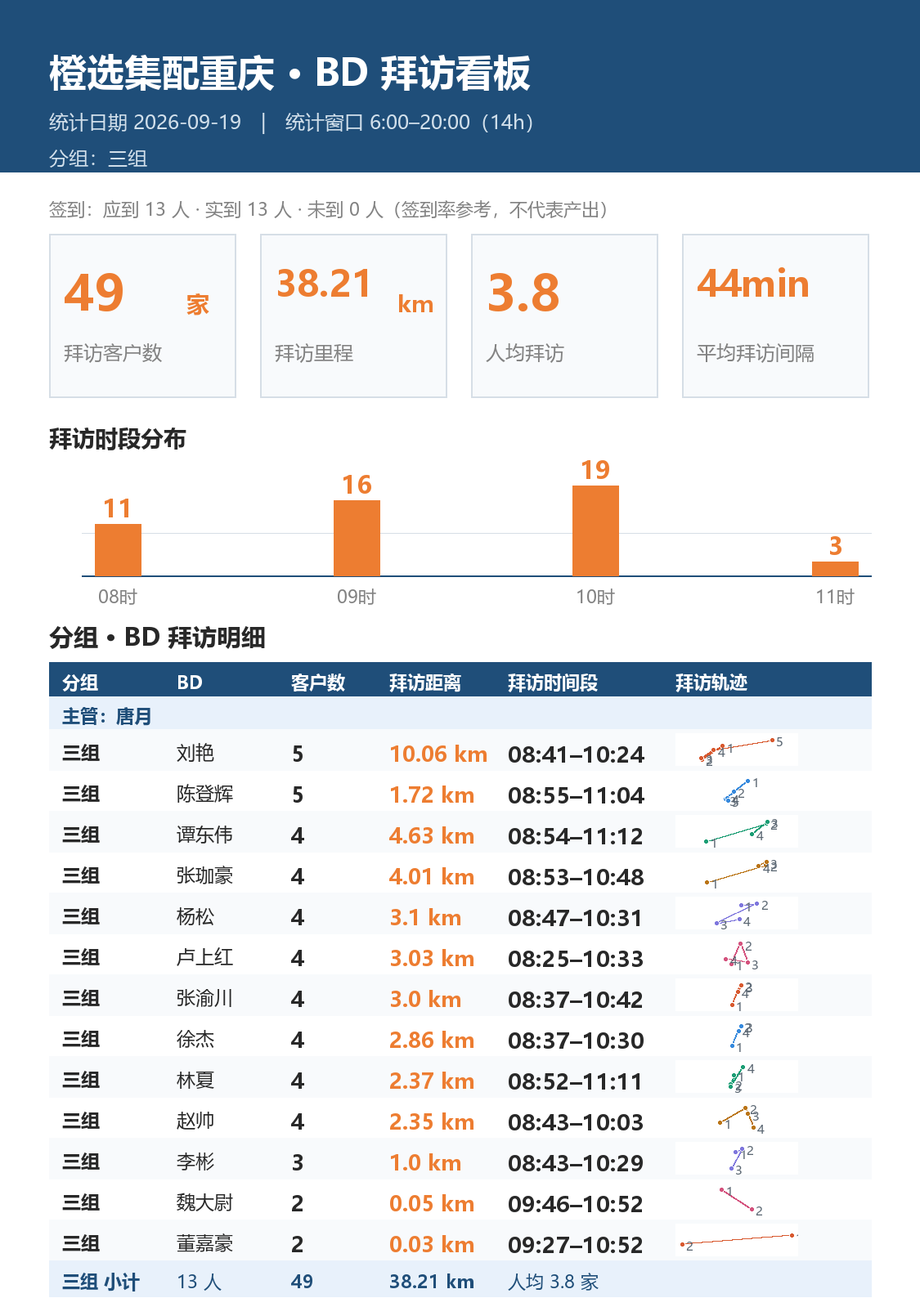
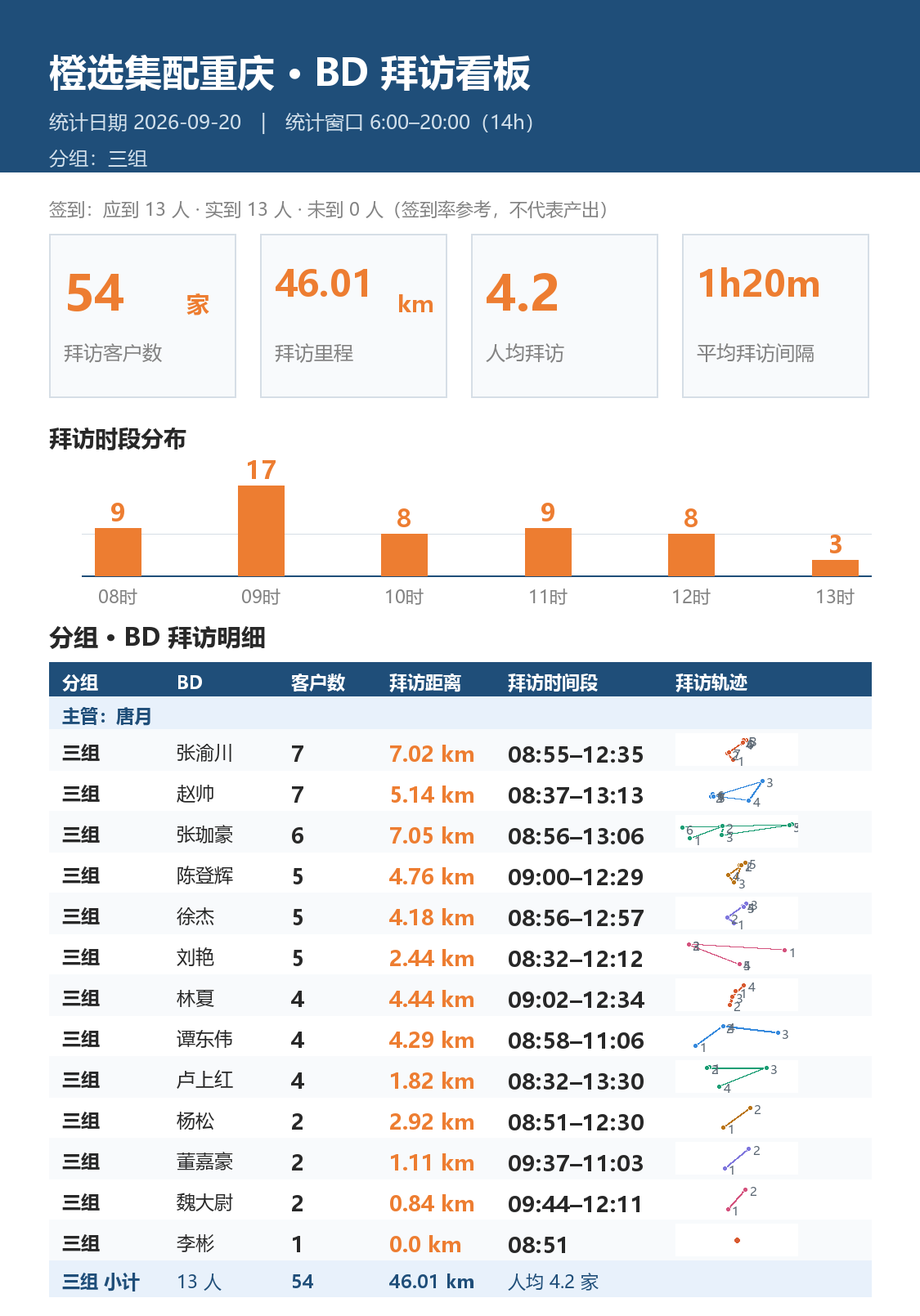
BD 拜访看板 2026-09-20

diff --git a/bd_visits/visit_board_g3.html b/bd_visits/visit_board_g3.html
@@ -107,88 +107,88 @@ td.span{font-size:16px;font-weight:600;color:#1F4E79;white-space:nowrap}
 <div class="sub">统计日期 2026-09-20　|　13 人　|　数据来源：钉钉签到</div></div>
 <div class="wrap">
 <div class="cards">
-<div class="card"><div><span class="v">41</span><span class="u">家</span></div><div class="l">拜访客户数</div></div><div class="card"><div><span class="v">30.82</span><span class="u">km</span></div><div class="l">拜访里程</div></div><div class="card"><div><span class="v">3.2</span><span class="u">家</span></div><div class="l">人均拜访</div></div><div class="card"><div><span class="v">50min</span><span class="u"></span></div><div class="l">平均拜访间隔</div></div>
+<div class="card"><div><span class="v">54</span><span class="u">家</span></div><div class="l">拜访客户数</div></div><div class="card"><div><span class="v">46.01</span><span class="u">km</span></div><div class="l">拜访里程</div></div><div class="card"><div><span class="v">4.2</span><span class="u">家</span></div><div class="l">人均拜访</div></div><div class="card"><div><span class="v">1h20m</span><span class="u"></span></div><div class="l">平均拜访间隔</div></div>
 </div>
-<div class="section"><h2>拜访时段分布</h2><div class="chart"><div class="crow"><div class="col"><span class="bv">9</span><div class="bar" style="height:28px"></div><span class="xl">08时</span></div><div class="col"><span class="bv">17</span><div class="bar" style="height:50px"></div><span class="xl">09时</span></div><div class="col"><span class="bv">8</span><div class="bar" style="height:26px"></div><span class="xl">10时</span></div><div class="col"><span class="bv">7</span><div class="bar" style="height:23px"></div><span class="xl">11时</span></div></div></div></div>
+<div class="section"><h2>拜访时段分布</h2><div class="chart"><div class="crow"><div class="col"><span class="bv">9</span><div class="bar" style="height:28px"></div><span class="xl">08时</span></div><div class="col"><span class="bv">17</span><div class="bar" style="height:50px"></div><span class="xl">09时</span></div><div class="col"><span class="bv">8</span><div class="bar" style="height:26px"></div><span class="xl">10时</span></div><div class="col"><span class="bv">9</span><div class="bar" style="height:28px"></div><span class="xl">11时</span></div><div class="col"><span class="bv">8</span><div class="bar" style="height:26px"></div><span class="xl">12时</span></div><div class="col"><span class="bv">3</span><div class="bar" style="height:12px"></div><span class="xl">13时</span></div></div></div></div>
 <div class="section"><h2>BD 拜访明细（13 人 / 签到 13 人）</h2>
 <table class="bd"><thead><tr><th>BD</th><th class="num">客户数</th><th class="num">拜访距离</th><th class="c">拜访时间段</th><th class="c">拜访轨迹</th></tr></thead>
 <tbody><tr style="background:#F2F6FB">
 <td data-label="BD">张渝川</td>
-<td class="num" data-label="客户数">6</td>
-<td class="num orange" data-label="拜访距离">5.03</td>
-<td class="c span" data-label="拜访时间段">08:55–11:26</td>
+<td class="num" data-label="客户数">7</td>
+<td class="num orange" data-label="拜访距离">7.02</td>
+<td class="c span" data-label="拜访时间段">08:55–12:35</td>
 <td class="c" data-label="拜访轨迹"><a href="javascript:void(0)" onclick="openRoute(0)" style="color:#1F4E79;font-weight:600;font-size:13px;white-space:nowrap">查看详情 ›</a></td>
 </tr><tr style="background:#FFFFFF">
 <td data-label="BD">赵帅</td>
-<td class="num" data-label="客户数">5</td>
-<td class="num orange" data-label="拜访距离">4.94</td>
-<td class="c span" data-label="拜访时间段">08:37–11:20</td>
+<td class="num" data-label="客户数">7</td>
+<td class="num orange" data-label="拜访距离">5.14</td>
+<td class="c span" data-label="拜访时间段">08:37–13:13</td>
 <td class="c" data-label="拜访轨迹"><a href="javascript:void(0)" onclick="openRoute(1)" style="color:#1F4E79;font-weight:600;font-size:13px;white-space:nowrap">查看详情 ›</a></td>
 </tr><tr style="background:#F2F6FB">
+<td data-label="BD">张珈豪</td>
+<td class="num" data-label="客户数">6</td>
+<td class="num orange" data-label="拜访距离">7.05</td>
+<td class="c span" data-label="拜访时间段">08:56–13:06</td>
+<td class="c" data-label="拜访轨迹"><a href="javascript:void(0)" onclick="openRoute(2)" style="color:#1F4E79;font-weight:600;font-size:13px;white-space:nowrap">查看详情 ›</a></td>
+</tr><tr style="background:#FFFFFF">
+<td data-label="BD">陈登辉</td>
+<td class="num" data-label="客户数">5</td>
+<td class="num orange" data-label="拜访距离">4.76</td>
+<td class="c span" data-label="拜访时间段">09:00–12:29</td>
+<td class="c" data-label="拜访轨迹"><a href="javascript:void(0)" onclick="openRoute(3)" style="color:#1F4E79;font-weight:600;font-size:13px;white-space:nowrap">查看详情 ›</a></td>
+</tr><tr style="background:#F2F6FB">
+<td data-label="BD">徐杰</td>
+<td class="num" data-label="客户数">5</td>
+<td class="num orange" data-label="拜访距离">4.18</td>
+<td class="c span" data-label="拜访时间段">08:56–12:57</td>
+<td class="c" data-label="拜访轨迹"><a href="javascript:void(0)" onclick="openRoute(4)" style="color:#1F4E79;font-weight:600;font-size:13px;white-space:nowrap">查看详情 ›</a></td>
+</tr><tr style="background:#FFFFFF">
+<td data-label="BD">刘艳</td>
+<td class="num" data-label="客户数">5</td>
+<td class="num orange" data-label="拜访距离">2.44</td>
+<td class="c span" data-label="拜访时间段">08:32–12:12</td>
+<td class="c" data-label="拜访轨迹"><a href="javascript:void(0)" onclick="openRoute(5)" style="color:#1F4E79;font-weight:600;font-size:13px;white-space:nowrap">查看详情 ›</a></td>
+</tr><tr style="background:#F2F6FB">
+<td data-label="BD">林夏</td>
+<td class="num" data-label="客户数">4</td>
+<td class="num orange" data-label="拜访距离">4.44</td>
+<td class="c span" data-label="拜访时间段">09:02–12:34</td>
+<td class="c" data-label="拜访轨迹"><a href="javascript:void(0)" onclick="openRoute(6)" style="color:#1F4E79;font-weight:600;font-size:13px;white-space:nowrap">查看详情 ›</a></td>
+</tr><tr style="background:#FFFFFF">
 <td data-label="BD">谭东伟</td>
 <td class="num" data-label="客户数">4</td>
 <td class="num orange" data-label="拜访距离">4.29</td>
 <td class="c span" data-label="拜访时间段">08:58–11:06</td>
-<td class="c" data-label="拜访轨迹"><a href="javascript:void(0)" onclick="openRoute(2)" style="color:#1F4E79;font-weight:600;font-size:13px;white-space:nowrap">查看详情 ›</a></td>
-</tr><tr style="background:#FFFFFF">
-<td data-label="BD">徐杰</td>
-<td class="num" data-label="客户数">4</td>
-<td class="num orange" data-label="拜访距离">4.07</td>
-<td class="c span" data-label="拜访时间段">08:56–10:53</td>
-<td class="c" data-label="拜访轨迹"><a href="javascript:void(0)" onclick="openRoute(3)" style="color:#1F4E79;font-weight:600;font-size:13px;white-space:nowrap">查看详情 ›</a></td>
-</tr><tr style="background:#F2F6FB">
-<td data-label="BD">张珈豪</td>
-<td class="num" data-label="客户数">4</td>
-<td class="num orange" data-label="拜访距离">3.59</td>
-<td class="c span" data-label="拜访时间段">08:56–11:22</td>
-<td class="c" data-label="拜访轨迹"><a href="javascript:void(0)" onclick="openRoute(4)" style="color:#1F4E79;font-weight:600;font-size:13px;white-space:nowrap">查看详情 ›</a></td>
-</tr><tr style="background:#FFFFFF">
-<td data-label="BD">陈登辉</td>
-<td class="num" data-label="客户数">4</td>
-<td class="num orange" data-label="拜访距离">2.75</td>
-<td class="c span" data-label="拜访时间段">09:00–10:31</td>
-<td class="c" data-label="拜访轨迹"><a href="javascript:void(0)" onclick="openRoute(5)" style="color:#1F4E79;font-weight:600;font-size:13px;white-space:nowrap">查看详情 ›</a></td>
-</tr><tr style="background:#F2F6FB">
-<td data-label="BD">刘艳</td>
-<td class="num" data-label="客户数">4</td>
-<td class="num orange" data-label="拜访距离">2.44</td>
-<td class="c span" data-label="拜访时间段">08:32–11:23</td>
-<td class="c" data-label="拜访轨迹"><a href="javascript:void(0)" onclick="openRoute(6)" style="color:#1F4E79;font-weight:600;font-size:13px;white-space:nowrap">查看详情 ›</a></td>
-</tr><tr style="background:#FFFFFF">
-<td data-label="BD">林夏</td>
-<td class="num" data-label="客户数">3</td>
-<td class="num orange" data-label="拜访距离">2.56</td>
-<td class="c span" data-label="拜访时间段">09:02–11:27</td>
 <td class="c" data-label="拜访轨迹"><a href="javascript:void(0)" onclick="openRoute(7)" style="color:#1F4E79;font-weight:600;font-size:13px;white-space:nowrap">查看详情 ›</a></td>
+</tr><tr style="background:#F2F6FB">
+<td data-label="BD">卢上红</td>
+<td class="num" data-label="客户数">4</td>
+<td class="num orange" data-label="拜访距离">1.82</td>
+<td class="c span" data-label="拜访时间段">08:32–13:30</td>
+<td class="c" data-label="拜访轨迹"><a href="javascript:void(0)" onclick="openRoute(8)" style="color:#1F4E79;font-weight:600;font-size:13px;white-space:nowrap">查看详情 ›</a></td>
+</tr><tr style="background:#FFFFFF">
+<td data-label="BD">杨松</td>
+<td class="num" data-label="客户数">2</td>
+<td class="num orange" data-label="拜访距离">2.92</td>
+<td class="c span" data-label="拜访时间段">08:51–12:30</td>
+<td class="c" data-label="拜访轨迹"><a href="javascript:void(0)" onclick="openRoute(9)" style="color:#1F4E79;font-weight:600;font-size:13px;white-space:nowrap">查看详情 ›</a></td>
 </tr><tr style="background:#F2F6FB">
 <td data-label="BD">董嘉豪</td>
 <td class="num" data-label="客户数">2</td>
 <td class="num orange" data-label="拜访距离">1.11</td>
 <td class="c span" data-label="拜访时间段">09:37–11:03</td>
-<td class="c" data-label="拜访轨迹"><a href="javascript:void(0)" onclick="openRoute(8)" style="color:#1F4E79;font-weight:600;font-size:13px;white-space:nowrap">查看详情 ›</a></td>
+<td class="c" data-label="拜访轨迹"><a href="javascript:void(0)" onclick="openRoute(10)" style="color:#1F4E79;font-weight:600;font-size:13px;white-space:nowrap">查看详情 ›</a></td>
 </tr><tr style="background:#FFFFFF">
-<td data-label="BD">卢上红</td>
+<td data-label="BD">魏大尉</td>
 <td class="num" data-label="客户数">2</td>
-<td class="num orange" data-label="拜访距离">0.04</td>
-<td class="c span" data-label="拜访时间段">08:32–09:22</td>
-<td class="c" data-label="拜访轨迹"><a href="javascript:void(0)" onclick="openRoute(9)" style="color:#1F4E79;font-weight:600;font-size:13px;white-space:nowrap">查看详情 ›</a></td>
+<td class="num orange" data-label="拜访距离">0.84</td>
+<td class="c span" data-label="拜访时间段">09:44–12:11</td>
+<td class="c" data-label="拜访轨迹"><a href="javascript:void(0)" onclick="openRoute(11)" style="color:#1F4E79;font-weight:600;font-size:13px;white-space:nowrap">查看详情 ›</a></td>
 </tr><tr style="background:#F2F6FB">
 <td data-label="BD">李彬</td>
 <td class="num" data-label="客户数">1</td>
 <td class="num orange" data-label="拜访距离">0.0</td>
 <td class="c span" data-label="拜访时间段">08:51</td>
-<td class="c" data-label="拜访轨迹"><a href="javascript:void(0)" onclick="openRoute(10)" style="color:#1F4E79;font-weight:600;font-size:13px;white-space:nowrap">查看详情 ›</a></td>
-</tr><tr style="background:#FFFFFF">
-<td data-label="BD">杨松</td>
-<td class="num" data-label="客户数">1</td>
-<td class="num orange" data-label="拜访距离">0.0</td>
-<td class="c span" data-label="拜访时间段">08:51</td>
-<td class="c" data-label="拜访轨迹"><a href="javascript:void(0)" onclick="openRoute(11)" style="color:#1F4E79;font-weight:600;font-size:13px;white-space:nowrap">查看详情 ›</a></td>
-</tr><tr style="background:#F2F6FB">
-<td data-label="BD">魏大尉</td>
-<td class="num" data-label="客户数">1</td>
-<td class="num orange" data-label="拜访距离">0.0</td>
-<td class="c span" data-label="拜访时间段">09:44</td>
 <td class="c" data-label="拜访轨迹"><a href="javascript:void(0)" onclick="openRoute(12)" style="color:#1F4E79;font-weight:600;font-size:13px;white-space:nowrap">查看详情 ›</a></td>
 </tr></tbody></table></div>
 </div>
@@ -204,7 +204,7 @@ td.span{font-size:16px;font-weight:600;color:#1F4E79;white-space:nowrap}
 </div>
 
 <script>
-const R={"0": {"name": "张渝川", "group": "三组", "visits": 6, "distance": 5.03, "span": "08:55–11:26", "pace": "30min", "pts": [{"lat": 32.33644883897569, "lon": 106.83352620442709, "time": "08:55", "visit": "新开交流", "loc": "集州街道红塔大道238号南江印象小区", "seg_km": 0.0}, {"lat": 32.342830674913195, "lon": 106.82640055338541, "time": "09:11", "visit": "新开", "loc": "集州街道香山路南江江南明珠商务宾馆", "seg_km": 0.98}, {"lat": 32.357510036892364, "lon": 106.84956624348958, "time": "09:41", "visit": "新开", "loc": "集州街道滨河东路70号", "seg_km": 2.72}, {"lat": 32.35389594184028, "lon": 106.84461697048611, "time": "10:19", "visit": "新开交流", "loc": "集州街道春长路71号", "seg_km": 0.61}, {"lat": 32.35715576171875, "lon": 106.84686957465277, "time": "10:38", "visit": "新开", "loc": "集州街道滨河东路27号", "seg_km": 0.42}, {"lat": 32.354755316840276, "lon": 106.84533989800347, "time": "11:26", "visit": "新开交流", "loc": "集州街道米仓山大道文星段四川省南江中学", "seg_km": 0.3}], "stops": [{"n": 1, "time": "08:55", "visit": "新开交流", "loc": "集州街道红塔大道238号南江印象小区"}, {"n": 2, "time": "09:11", "visit": "新开", "loc": "集州街道香山路南江江南明珠商务宾馆"}, {"n": 3, "time": "09:41", "visit": "新开", "loc": "集州街道滨河东路70号"}, {"n": 4, "time": "10:19", "visit": "新开交流", "loc": "集州街道春长路71号"}, {"n": 5, "time": "10:38", "visit": "新开", "loc": "集州街道滨河东路27号"}, {"n": 6, "time": "11:26", "visit": "新开交流", "loc": "集州街道米仓山大道文星段四川省南江中学"}]}, "1": {"name": "赵帅", "group": "三组", "visits": 5, "distance": 4.94, "span": "08:37–11:20", "pace": "41min", "pts": [{"lat": 32.229987, "lon": 106.284782, "time": "08:37", "visit": "拜访注册客户", "loc": "东河镇红星北路28号", "seg_km": 0.0}, {"lat": 32.229284, "lon": 106.284099, "time": "09:11", "visit": "拜访客户", "loc": "东河镇爱心幼儿园(新华街)", "seg_km": 0.1}, {"lat": 32.235342, "lon": 106.307426, "time": "09:47", "visit": "拜访客户", "loc": "东河镇振兴路领秀江南", "seg_km": 2.3}, {"lat": 32.227763, "lon": 106.30118, "time": "10:27", "visit": "拜访客户", "loc": "东河镇沿河路三益·帝景湾", "seg_km": 1.03}, {"lat": 32.229299, "lon": 106.28523, "time": "11:20", "visit": "拜访客户", "loc": "四川广运集团旺苍有限公司", "seg_km": 1.51}], "stops": [{"n": 1, "time": "08:37", "visit": "拜访注册客户", "loc": "东河镇红星北路28号"}, {"n": 2, "time": "09:11", "visit": "拜访客户", "loc": "东河镇爱心幼儿园(新华街)"}, {"n": 3, "time": "09:47", "visit": "拜访客户", "loc": "东河镇振兴路领秀江南"}, {"n": 4, "time": "10:27", "visit": "拜访客户", "loc": "东河镇沿河路三益·帝景湾"}, {"n": 5, "time": "11:20", "visit": "拜访客户", "loc": "四川广运集团旺苍有限公司"}]}, "2": {"name": "谭东伟", "group": "三组", "visits": 4, "distance": 4.29, "span": "08:58–11:06", "pace": "43min", "pts": [{"lat": 32.223943684895836, "lon": 106.27519070095487, "time": "08:58", "visit": "拜访新客", "loc": "东河镇542国道紫瑞苑", "seg_km": 0.0}, {"lat": 32.229051920572914, "lon": 106.28363959418402, "time": "09:19", "visit": "拜访注册客户", "loc": "东河镇阳光美登家私(新华街店)", "seg_km": 0.98}, {"lat": 32.22741427951389, "lon": 106.30131239149306, "time": "10:20", "visit": "拜访注册客户", "loc": "东河镇沿河路三益·帝景湾", "seg_km": 1.67}, {"lat": 32.22919677734375, "lon": 106.28400851779514, "time": "11:06", "visit": "拜访新客推品", "loc": "东河镇爱心幼儿园(新华街)", "seg_km": 1.64}], "stops": [{"n": 1, "time": "08:58", "visit": "拜访新客", "loc": "东河镇542国道紫瑞苑"}, {"n": 2, "time": "09:19", "visit": "拜访注册客户", "loc": "东河镇阳光美登家私(新华街店)"}, {"n": 3, "time": "10:20", "visit": "拜访注册客户", "loc": "东河镇沿河路三益·帝景湾"}, {"n": 4, "time": "11:06", "visit": "拜访新客推品", "loc": "东河镇爱心幼儿园(新华街)"}]}, "3": {"name": "徐杰", "group": "三组", "visits": 4, "distance": 4.07, "span": "08:56–10:53", "pace": "39min", "pts": [{"lat": 32.337399, "lon": 106.834149, "time": "08:56", "visit": "逼单", "loc": "江南印象售楼部", "seg_km": 0.0}, {"lat": 32.343002, "lon": 106.826559, "time": "09:10", "visit": "新客户拜访", "loc": "加南美地活禽宰杀店", "seg_km": 0.95}, {"lat": 32.357355, "lon": 106.849241, "time": "09:48", "visit": "拜访逼单", "loc": "集州街道米仓山大道文星段573号", "seg_km": 2.66}, {"lat": 32.354812, "lon": 106.845368, "time": "10:53", "visit": "拜访逼单", "loc": "集州街道米仓山大道文星段四川省南江中学", "seg_km": 0.46}], "stops": [{"n": 1, "time": "08:56", "visit": "逼单", "loc": "江南印象售楼部"}, {"n": 2, "time": "09:10", "visit": "新客户拜访", "loc": "加南美地活禽宰杀店"}, {"n": 3, "time": "09:48", "visit": "拜访逼单", "loc": "集州街道米仓山大道文星段573号"}, {"n": 4, "time": "10:53", "visit": "拜访逼单", "loc": "集州街道米仓山大道文星段四川省南江中学"}]}, "4": {"name": "张珈豪", "group": "三组", "visits": 4, "distance": 3.59, "span": "08:56–11:22", "pace": "49min", "pts": [{"lat": 32.22372612847222, "lon": 106.27590711805556, "time": "08:56", "visit": "拜访注册商户", "loc": "东河镇兴旺东路81号附7中驰·十里江山", "seg_km": 0.0}, {"lat": 32.22713704427083, "lon": 106.28671685112847, "time": "09:27", "visit": "拜访注册客户", "loc": "东河镇新华街631号旺苍县人民医院", "seg_km": 1.09}, {"lat": 32.22458604600695, "lon": 106.28653537326389, "time": "10:40", "visit": "拜访注册客户", "loc": "东河镇红星南路", "seg_km": 0.28}, {"lat": 32.22773735894097, "lon": 106.30985026041667, "time": "11:22", "visit": "拜访注册客户", "loc": "东河镇环城东路旺苍职中", "seg_km": 2.22}], "stops": [{"n": 1, "time": "08:56", "visit": "拜访注册商户", "loc": "东河镇兴旺东路81号附7中驰·十里江山"}, {"n": 2, "time": "09:27", "visit": "拜访注册客户", "loc": "东河镇新华街631号旺苍县人民医院"}, {"n": 3, "time": "10:40", "visit": "拜访注册客户", "loc": "东河镇红星南路"}, {"n": 4, "time": "11:22", "visit": "拜访注册客户", "loc": "东河镇环城东路旺苍职中"}]}, "5": {"name": "陈登辉", "group": "三组", "visits": 4, "distance": 2.75, "span": "09:00–10:31", "pace": "31min", "pts": [{"lat": 32.3513069152832, "lon": 106.83808898925781, "time": "09:00", "visit": "拜访", "loc": "荣旺商贸", "seg_km": 0.0}, {"lat": 32.35157769097222, "lon": 106.8392711046007, "time": "09:28", "visit": "拜访", "loc": "集州街道下河街210附7", "seg_km": 0.12}, {"lat": 32.336893988715275, "lon": 106.83232069227431, "time": "09:53", "visit": "客户拜访", "loc": "集州街道红塔大道218号红叶广场", "seg_km": 1.76}, {"lat": 32.34291097005208, "lon": 106.82639187282986, "time": "10:31", "visit": "拜访", "loc": "集州街道香山路南江江南明珠商务宾馆", "seg_km": 0.87}], "stops": [{"n": 1, "time": "09:00", "visit": "拜访", "loc": "荣旺商贸"}, {"n": 2, "time": "09:28", "visit": "拜访", "loc": "集州街道下河街210附7"}, {"n": 3, "time": "09:53", "visit": "客户拜访", "loc": "集州街道红塔大道218号红叶广场"}, {"n": 4, "time": "10:31", "visit": "拜访", "loc": "集州街道香山路南江江南明珠商务宾馆"}]}, "6": {"name": "刘艳", "group": "三组", "visits": 4, "distance": 2.44, "span": "08:32–11:23", "pace": "57min", "pts": [{"lat": 32.229056, "lon": 106.301309, "time": "08:32", "visit": "拜访注册客户", "loc": "东河镇滨河北路59号旺苍红城医院", "seg_km": 0.0}, {"lat": 32.229971, "lon": 106.284808, "time": "09:18", "visit": "拜访注册客户", "loc": "东河镇红星北路28号", "seg_km": 1.56}, {"lat": 32.22992, "lon": 106.284846, "time": "10:20", "visit": "拜访注册客户", "loc": "东河镇红星北路28号", "seg_km": 0.01}, {"lat": 32.227128, "lon": 106.29353, "time": "11:23", "visit": "拜访注册客户", "loc": "西凤巷", "seg_km": 0.87}], "stops": [{"n": 1, "time": "08:32", "visit": "拜访注册客户", "loc": "东河镇滨河北路59号旺苍红城医院"}, {"n": 2, "time": "09:18", "visit": "拜访注册客户", "loc": "东河镇红星北路28号"}, {"n": 3, "time": "10:20", "visit": "拜访注册客户", "loc": "东河镇红星北路28号"}, {"n": 4, "time": "11:23", "visit": "拜访注册客户", "loc": "西凤巷"}]}, "7": {"name": "林夏", "group": "三组", "visits": 3, "distance": 2.56, "span": "09:02–11:27", "pace": "1h13m", "pts": [{"lat": 32.35174, "lon": 106.83939, "time": "09:02", "visit": "逼单", "loc": "集州街道下河街212号", "seg_km": 0.0}, {"lat": 32.33844028579394, "lon": 106.8317377860335, "time": "09:41", "visit": "拜访注册客户", "loc": "集州街道红塔大道147号", "seg_km": 1.64}, {"lat": 32.346386, "lon": 106.83463, "time": "11:27", "visit": "拜访客户", "loc": "集州街道米仓山大道南磷段龙城国际", "seg_km": 0.92}], "stops": [{"n": 1, "time": "09:02", "visit": "逼单", "loc": "集州街道下河街212号"}, {"n": 2, "time": "09:41", "visit": "拜访注册客户", "loc": "集州街道红塔大道147号"}, {"n": 3, "time": "11:27", "visit": "拜访客户", "loc": "集州街道米仓山大道南磷段龙城国际"}]}, "8": {"name": "董嘉豪", "group": "三组", "visits": 2, "distance": 1.11, "span": "09:37–11:03", "pace": "1h26m", "pts": [{"lat": 32.22359085083008, "lon": 106.27558898925781, "time": "09:37", "visit": "拜访客户路上", "loc": "际闳超市(三分店)", "seg_km": 0.0}, {"lat": 32.22990342881945, "lon": 106.28469645182291, "time": "11:03", "visit": "拜访客户", "loc": "东河镇红星北路26号", "seg_km": 1.11}], "stops": [{"n": 1, "time": "09:37", "visit": "拜访客户路上", "loc": "际闳超市(三分店)"}, {"n": 2, "time": "11:03", "visit": "拜访客户", "loc": "东河镇红星北路26号"}]}, "9": {"name": "卢上红", "group": "三组", "visits": 2, "distance": 0.04, "span": "08:32–09:22", "pace": "50min", "pts": [{"lat": 32.22992, "lon": 106.284846, "time": "08:32", "visit": "新开客户", "loc": "东河镇红星北路28号", "seg_km": 0.0}, {"lat": 32.229753, "lon": 106.28452, "time": "09:22", "visit": "开新开", "loc": "新城综合市场", "seg_km": 0.04}], "stops": [{"n": 1, "time": "08:32", "visit": "新开客户", "loc": "东河镇红星北路28号"}, {"n": 2, "time": "09:22", "visit": "开新开", "loc": "新城综合市场"}]}, "10": {"name": "李彬", "group": "三组", "visits": 1, "distance": 0.0, "span": "08:51", "pace": "—", "pts": [{"lat": 32.33792317708333, "lon": 106.81855767144097, "time": "08:51", "visit": "新开", "loc": "集州街道思源小学南江麓府", "seg_km": 0.0}], "stops": [{"n": 1, "time": "08:51", "visit": "新开", "loc": "集州街道思源小学南江麓府"}]}, "11": {"name": "杨松", "group": "三组", "visits": 1, "distance": 0.0, "span": "08:51", "pace": "—", "pts": [{"lat": 32.337985334356695, "lon": 106.81868095215897, "time": "08:51", "visit": "拜访客户", "loc": "集州街道焰遇大排档南江麓府", "seg_km": 0.0}], "stops": [{"n": 1, "time": "08:51", "visit": "拜访客户", "loc": "集州街道焰遇大排档南江麓府"}]}, "12": {"name": "魏大尉", "group": "三组", "visits": 1, "distance": 0.0, "span": "09:44", "pace": "—", "pts": [{"lat": 32.223616, "lon": 106.279497, "time": "09:44", "visit": "拜访新开", "loc": "东河镇滨河西路栖岛家园", "seg_km": 0.0}], "stops": [{"n": 1, "time": "09:44", "visit": "拜访新开", "loc": "东河镇滨河西路栖岛家园"}]}};
+const R={"0": {"name": "张渝川", "group": "三组", "visits": 7, "distance": 7.02, "span": "08:55–12:35", "pace": "37min", "pts": [{"lat": 32.33644883897569, "lon": 106.83352620442709, "time": "08:55", "visit": "新开交流", "loc": "集州街道红塔大道238号南江印象小区", "seg_km": 0.0}, {"lat": 32.342830674913195, "lon": 106.82640055338541, "time": "09:11", "visit": "新开", "loc": "集州街道香山路南江江南明珠商务宾馆", "seg_km": 0.98}, {"lat": 32.357510036892364, "lon": 106.84956624348958, "time": "09:41", "visit": "新开", "loc": "集州街道滨河东路70号", "seg_km": 2.72}, {"lat": 32.35389594184028, "lon": 106.84461697048611, "time": "10:19", "visit": "新开交流", "loc": "集州街道春长路71号", "seg_km": 0.61}, {"lat": 32.35715576171875, "lon": 106.84686957465277, "time": "10:38", "visit": "新开", "loc": "集州街道滨河东路27号", "seg_km": 0.42}, {"lat": 32.354755316840276, "lon": 106.84533989800347, "time": "11:26", "visit": "新开交流", "loc": "集州街道米仓山大道文星段四川省南江中学", "seg_km": 0.3}, {"lat": 32.34413764105903, "lon": 106.82825710720486, "time": "12:35", "visit": "新开交流", "loc": "集州街道光雾山大道朝阳西段", "seg_km": 1.99}], "stops": [{"n": 1, "time": "08:55", "visit": "新开交流", "loc": "集州街道红塔大道238号南江印象小区"}, {"n": 2, "time": "09:11", "visit": "新开", "loc": "集州街道香山路南江江南明珠商务宾馆"}, {"n": 3, "time": "09:41", "visit": "新开", "loc": "集州街道滨河东路70号"}, {"n": 4, "time": "10:19", "visit": "新开交流", "loc": "集州街道春长路71号"}, {"n": 5, "time": "10:38", "visit": "新开", "loc": "集州街道滨河东路27号"}, {"n": 6, "time": "11:26", "visit": "新开交流", "loc": "集州街道米仓山大道文星段四川省南江中学"}, {"n": 7, "time": "12:35", "visit": "新开交流", "loc": "集州街道光雾山大道朝阳西段"}]}, "1": {"name": "赵帅", "group": "三组", "visits": 7, "distance": 5.14, "span": "08:37–13:13", "pace": "46min", "pts": [{"lat": 32.229987, "lon": 106.284782, "time": "08:37", "visit": "拜访注册客户", "loc": "东河镇红星北路28号", "seg_km": 0.0}, {"lat": 32.229284, "lon": 106.284099, "time": "09:11", "visit": "拜访客户", "loc": "东河镇爱心幼儿园(新华街)", "seg_km": 0.1}, {"lat": 32.235342, "lon": 106.307426, "time": "09:47", "visit": "拜访客户", "loc": "东河镇振兴路领秀江南", "seg_km": 2.3}, {"lat": 32.227763, "lon": 106.30118, "time": "10:27", "visit": "拜访客户", "loc": "东河镇沿河路三益·帝景湾", "seg_km": 1.03}, {"lat": 32.229299, "lon": 106.28523, "time": "11:20", "visit": "拜访客户", "loc": "四川广运集团旺苍有限公司", "seg_km": 1.51}, {"lat": 32.230157, "lon": 106.284813, "time": "12:07", "visit": "拜访客户", "loc": "世纪春天动漫城", "seg_km": 0.1}, {"lat": 32.229299, "lon": 106.28523, "time": "13:13", "visit": "拜访客户", "loc": "四川广运集团旺苍有限公司", "seg_km": 0.1}], "stops": [{"n": 1, "time": "08:37", "visit": "拜访注册客户", "loc": "东河镇红星北路28号"}, {"n": 2, "time": "09:11", "visit": "拜访客户", "loc": "东河镇爱心幼儿园(新华街)"}, {"n": 3, "time": "09:47", "visit": "拜访客户", "loc": "东河镇振兴路领秀江南"}, {"n": 4, "time": "10:27", "visit": "拜访客户", "loc": "东河镇沿河路三益·帝景湾"}, {"n": 5, "time": "11:20", "visit": "拜访客户", "loc": "四川广运集团旺苍有限公司"}, {"n": 6, "time": "12:07", "visit": "拜访客户", "loc": "世纪春天动漫城"}, {"n": 7, "time": "13:13", "visit": "拜访客户", "loc": "四川广运集团旺苍有限公司"}]}, "2": {"name": "张珈豪", "group": "三组", "visits": 6, "distance": 7.05, "span": "08:56–13:06", "pace": "50min", "pts": [{"lat": 32.22372612847222, "lon": 106.27590711805556, "time": "08:56", "visit": "拜访注册商户", "loc": "东河镇兴旺东路81号附7中驰·十里江山", "seg_km": 0.0}, {"lat": 32.22713704427083, "lon": 106.28671685112847, "time": "09:27", "visit": "拜访注册客户", "loc": "东河镇新华街631号旺苍县人民医院", "seg_km": 1.09}, {"lat": 32.22458604600695, "lon": 106.28653537326389, "time": "10:40", "visit": "拜访注册客户", "loc": "东河镇红星南路", "seg_km": 0.28}, {"lat": 32.22773735894097, "lon": 106.30985026041667, "time": "11:22", "visit": "拜访注册客户", "loc": "东河镇环城东路旺苍职中", "seg_km": 2.22}, {"lat": 32.22736952039931, "lon": 106.30903971354167, "time": "11:48", "visit": "拜访注册客户", "loc": "东河镇环城东路旺苍客运站", "seg_km": 0.09}, {"lat": 32.22673800998264, "lon": 106.27319363064237, "time": "13:06", "visit": "拜访注册商户", "loc": "东河镇博誉门窗", "seg_km": 3.37}], "stops": [{"n": 1, "time": "08:56", "visit": "拜访注册商户", "loc": "东河镇兴旺东路81号附7中驰·十里江山"}, {"n": 2, "time": "09:27", "visit": "拜访注册客户", "loc": "东河镇新华街631号旺苍县人民医院"}, {"n": 3, "time": "10:40", "visit": "拜访注册客户", "loc": "东河镇红星南路"}, {"n": 4, "time": "11:22", "visit": "拜访注册客户", "loc": "东河镇环城东路旺苍职中"}, {"n": 5, "time": "11:48", "visit": "拜访注册客户", "loc": "东河镇环城东路旺苍客运站"}, {"n": 6, "time": "13:06", "visit": "拜访注册商户", "loc": "东河镇博誉门窗"}]}, "3": {"name": "陈登辉", "group": "三组", "visits": 5, "distance": 4.76, "span": "09:00–12:29", "pace": "52min", "pts": [{"lat": 32.3513069152832, "lon": 106.83808898925781, "time": "09:00", "visit": "拜访", "loc": "荣旺商贸", "seg_km": 0.0}, {"lat": 32.35157769097222, "lon": 106.8392711046007, "time": "09:28", "visit": "拜访", "loc": "集州街道下河街210附7", "seg_km": 0.12}, {"lat": 32.336893988715275, "lon": 106.83232069227431, "time": "09:53", "visit": "客户拜访", "loc": "集州街道红塔大道218号红叶广场", "seg_km": 1.76}, {"lat": 32.34291097005208, "lon": 106.82639187282986, "time": "10:31", "visit": "拜访", "loc": "集州街道香山路南江江南明珠商务宾馆", "seg_km": 0.87}, {"lat": 32.35369764539931, "lon": 106.84350775824653, "time": "12:29", "visit": "拜访", "loc": "集州街道滨河东路54号", "seg_km": 2.01}], "stops": [{"n": 1, "time": "09:00", "visit": "拜访", "loc": "荣旺商贸"}, {"n": 2, "time": "09:28", "visit": "拜访", "loc": "集州街道下河街210附7"}, {"n": 3, "time": "09:53", "visit": "客户拜访", "loc": "集州街道红塔大道218号红叶广场"}, {"n": 4, "time": "10:31", "visit": "拜访", "loc": "集州街道香山路南江江南明珠商务宾馆"}, {"n": 5, "time": "12:29", "visit": "拜访", "loc": "集州街道滨河东路54号"}]}, "4": {"name": "徐杰", "group": "三组", "visits": 5, "distance": 4.18, "span": "08:56–12:57", "pace": "1h00m", "pts": [{"lat": 32.337399, "lon": 106.834149, "time": "08:56", "visit": "逼单", "loc": "江南印象售楼部", "seg_km": 0.0}, {"lat": 32.343002, "lon": 106.826559, "time": "09:10", "visit": "新客户拜访", "loc": "加南美地活禽宰杀店", "seg_km": 0.95}, {"lat": 32.357355, "lon": 106.849241, "time": "09:48", "visit": "拜访逼单", "loc": "集州街道米仓山大道文星段573号", "seg_km": 2.66}, {"lat": 32.354812, "lon": 106.845368, "time": "10:53", "visit": "拜访逼单", "loc": "集州街道米仓山大道文星段四川省南江中学", "seg_km": 0.46}, {"lat": 32.353862, "lon": 106.845798, "time": "12:57", "visit": "拜访", "loc": "益茶客(老南中店)", "seg_km": 0.11}], "stops": [{"n": 1, "time": "08:56", "visit": "逼单", "loc": "江南印象售楼部"}, {"n": 2, "time": "09:10", "visit": "新客户拜访", "loc": "加南美地活禽宰杀店"}, {"n": 3, "time": "09:48", "visit": "拜访逼单", "loc": "集州街道米仓山大道文星段573号"}, {"n": 4, "time": "10:53", "visit": "拜访逼单", "loc": "集州街道米仓山大道文星段四川省南江中学"}, {"n": 5, "time": "12:57", "visit": "拜访", "loc": "益茶客(老南中店)"}]}, "5": {"name": "刘艳", "group": "三组", "visits": 5, "distance": 2.44, "span": "08:32–12:12", "pace": "55min", "pts": [{"lat": 32.229056, "lon": 106.301309, "time": "08:32", "visit": "拜访注册客户", "loc": "东河镇滨河北路59号旺苍红城医院", "seg_km": 0.0}, {"lat": 32.229971, "lon": 106.284808, "time": "09:18", "visit": "拜访注册客户", "loc": "东河镇红星北路28号", "seg_km": 1.56}, {"lat": 32.22992, "lon": 106.284846, "time": "10:20", "visit": "拜访注册客户", "loc": "东河镇红星北路28号", "seg_km": 0.01}, {"lat": 32.227128, "lon": 106.29353, "time": "11:23", "visit": "拜访注册客户", "loc": "西凤巷", "seg_km": 0.87}, {"lat": 32.227128, "lon": 106.29353, "time": "12:12", "visit": "拜访注册客户", "loc": "西凤巷", "seg_km": 0.0}], "stops": [{"n": 1, "time": "08:32", "visit": "拜访注册客户", "loc": "东河镇滨河北路59号旺苍红城医院"}, {"n": 2, "time": "09:18", "visit": "拜访注册客户", "loc": "东河镇红星北路28号"}, {"n": 3, "time": "10:20", "visit": "拜访注册客户", "loc": "东河镇红星北路28号"}, {"n": 4, "time": "11:23", "visit": "拜访注册客户", "loc": "西凤巷"}, {"n": 5, "time": "12:12", "visit": "拜访注册客户", "loc": "西凤巷"}]}, "6": {"name": "林夏", "group": "三组", "visits": 4, "distance": 4.44, "span": "09:02–12:34", "pace": "1h11m", "pts": [{"lat": 32.35174, "lon": 106.83939, "time": "09:02", "visit": "逼单", "loc": "集州街道下河街212号", "seg_km": 0.0}, {"lat": 32.33844028579394, "lon": 106.8317377860335, "time": "09:41", "visit": "拜访注册客户", "loc": "集州街道红塔大道147号", "seg_km": 1.64}, {"lat": 32.346386, "lon": 106.83463, "time": "11:27", "visit": "拜访客户", "loc": "集州街道米仓山大道南磷段龙城国际", "seg_km": 0.92}, {"lat": 32.35816, "lon": 106.84905, "time": "12:34", "visit": "拜访注册客户", "loc": "果乐汇(光雾山大道城庙中段店)", "seg_km": 1.88}], "stops": [{"n": 1, "time": "09:02", "visit": "逼单", "loc": "集州街道下河街212号"}, {"n": 2, "time": "09:41", "visit": "拜访注册客户", "loc": "集州街道红塔大道147号"}, {"n": 3, "time": "11:27", "visit": "拜访客户", "loc": "集州街道米仓山大道南磷段龙城国际"}, {"n": 4, "time": "12:34", "visit": "拜访注册客户", "loc": "果乐汇(光雾山大道城庙中段店)"}]}, "7": {"name": "谭东伟", "group": "三组", "visits": 4, "distance": 4.29, "span": "08:58–11:06", "pace": "43min", "pts": [{"lat": 32.223943684895836, "lon": 106.27519070095487, "time": "08:58", "visit": "拜访新客", "loc": "东河镇542国道紫瑞苑", "seg_km": 0.0}, {"lat": 32.229051920572914, "lon": 106.28363959418402, "time": "09:19", "visit": "拜访注册客户", "loc": "东河镇阳光美登家私(新华街店)", "seg_km": 0.98}, {"lat": 32.22741427951389, "lon": 106.30131239149306, "time": "10:20", "visit": "拜访注册客户", "loc": "东河镇沿河路三益·帝景湾", "seg_km": 1.67}, {"lat": 32.22919677734375, "lon": 106.28400851779514, "time": "11:06", "visit": "拜访新客推品", "loc": "东河镇爱心幼儿园(新华街)", "seg_km": 1.64}], "stops": [{"n": 1, "time": "08:58", "visit": "拜访新客", "loc": "东河镇542国道紫瑞苑"}, {"n": 2, "time": "09:19", "visit": "拜访注册客户", "loc": "东河镇阳光美登家私(新华街店)"}, {"n": 3, "time": "10:20", "visit": "拜访注册客户", "loc": "东河镇沿河路三益·帝景湾"}, {"n": 4, "time": "11:06", "visit": "拜访新客推品", "loc": "东河镇爱心幼儿园(新华街)"}]}, "8": {"name": "卢上红", "group": "三组", "visits": 4, "distance": 1.82, "span": "08:32–13:30", "pace": "1h40m", "pts": [{"lat": 32.22992, "lon": 106.284846, "time": "08:32", "visit": "新开客户", "loc": "东河镇红星北路28号", "seg_km": 0.0}, {"lat": 32.229753, "lon": 106.28452, "time": "09:22", "visit": "开新开", "loc": "新城综合市场", "seg_km": 0.04}, {"lat": 32.229751, "lon": 106.294679, "time": "11:59", "visit": "跑新开", "loc": "东河镇建设路百佳苑", "seg_km": 0.96}, {"lat": 32.227071, "lon": 106.286584, "time": "13:30", "visit": "跑新开", "loc": "一果一家·ZNJ(东河镇店)", "seg_km": 0.82}], "stops": [{"n": 1, "time": "08:32", "visit": "新开客户", "loc": "东河镇红星北路28号"}, {"n": 2, "time": "09:22", "visit": "开新开", "loc": "新城综合市场"}, {"n": 3, "time": "11:59", "visit": "跑新开", "loc": "东河镇建设路百佳苑"}, {"n": 4, "time": "13:30", "visit": "跑新开", "loc": "一果一家·ZNJ(东河镇店)"}]}, "9": {"name": "杨松", "group": "三组", "visits": 2, "distance": 2.92, "span": "08:51–12:30", "pace": "3h39m", "pts": [{"lat": 32.337985334356695, "lon": 106.81868095215897, "time": "08:51", "visit": "拜访客户", "loc": "集州街道焰遇大排档南江麓府", "seg_km": 0.0}, {"lat": 32.35361966602714, "lon": 106.8436374817545, "time": "12:30", "visit": "拜访客户", "loc": "集州街道上河街62号", "seg_km": 2.92}], "stops": [{"n": 1, "time": "08:51", "visit": "拜访客户", "loc": "集州街道焰遇大排档南江麓府"}, {"n": 2, "time": "12:30", "visit": "拜访客户", "loc": "集州街道上河街62号"}]}, "10": {"name": "董嘉豪", "group": "三组", "visits": 2, "distance": 1.11, "span": "09:37–11:03", "pace": "1h26m", "pts": [{"lat": 32.22359085083008, "lon": 106.27558898925781, "time": "09:37", "visit": "拜访客户路上", "loc": "际闳超市(三分店)", "seg_km": 0.0}, {"lat": 32.22990342881945, "lon": 106.28469645182291, "time": "11:03", "visit": "拜访客户", "loc": "东河镇红星北路26号", "seg_km": 1.11}], "stops": [{"n": 1, "time": "09:37", "visit": "拜访客户路上", "loc": "际闳超市(三分店)"}, {"n": 2, "time": "11:03", "visit": "拜访客户", "loc": "东河镇红星北路26号"}]}, "11": {"name": "魏大尉", "group": "三组", "visits": 2, "distance": 0.84, "span": "09:44–12:11", "pace": "2h27m", "pts": [{"lat": 32.223616, "lon": 106.279497, "time": "09:44", "visit": "拜访新开", "loc": "东河镇滨河西路栖岛家园", "seg_km": 0.0}, {"lat": 32.229298, "lon": 106.285412, "time": "12:11", "visit": "拜访加单", "loc": "东河镇红星北路", "seg_km": 0.84}], "stops": [{"n": 1, "time": "09:44", "visit": "拜访新开", "loc": "东河镇滨河西路栖岛家园"}, {"n": 2, "time": "12:11", "visit": "拜访加单", "loc": "东河镇红星北路"}]}, "12": {"name": "李彬", "group": "三组", "visits": 1, "distance": 0.0, "span": "08:51", "pace": "—", "pts": [{"lat": 32.33792317708333, "lon": 106.81855767144097, "time": "08:51", "visit": "新开", "loc": "集州街道思源小学南江麓府", "seg_km": 0.0}], "stops": [{"n": 1, "time": "08:51", "visit": "新开", "loc": "集州街道思源小学南江麓府"}]}};
 var rMap=null, rLayer=null, rReady=false;
 function ensureMap(){
   if(rReady) return;
